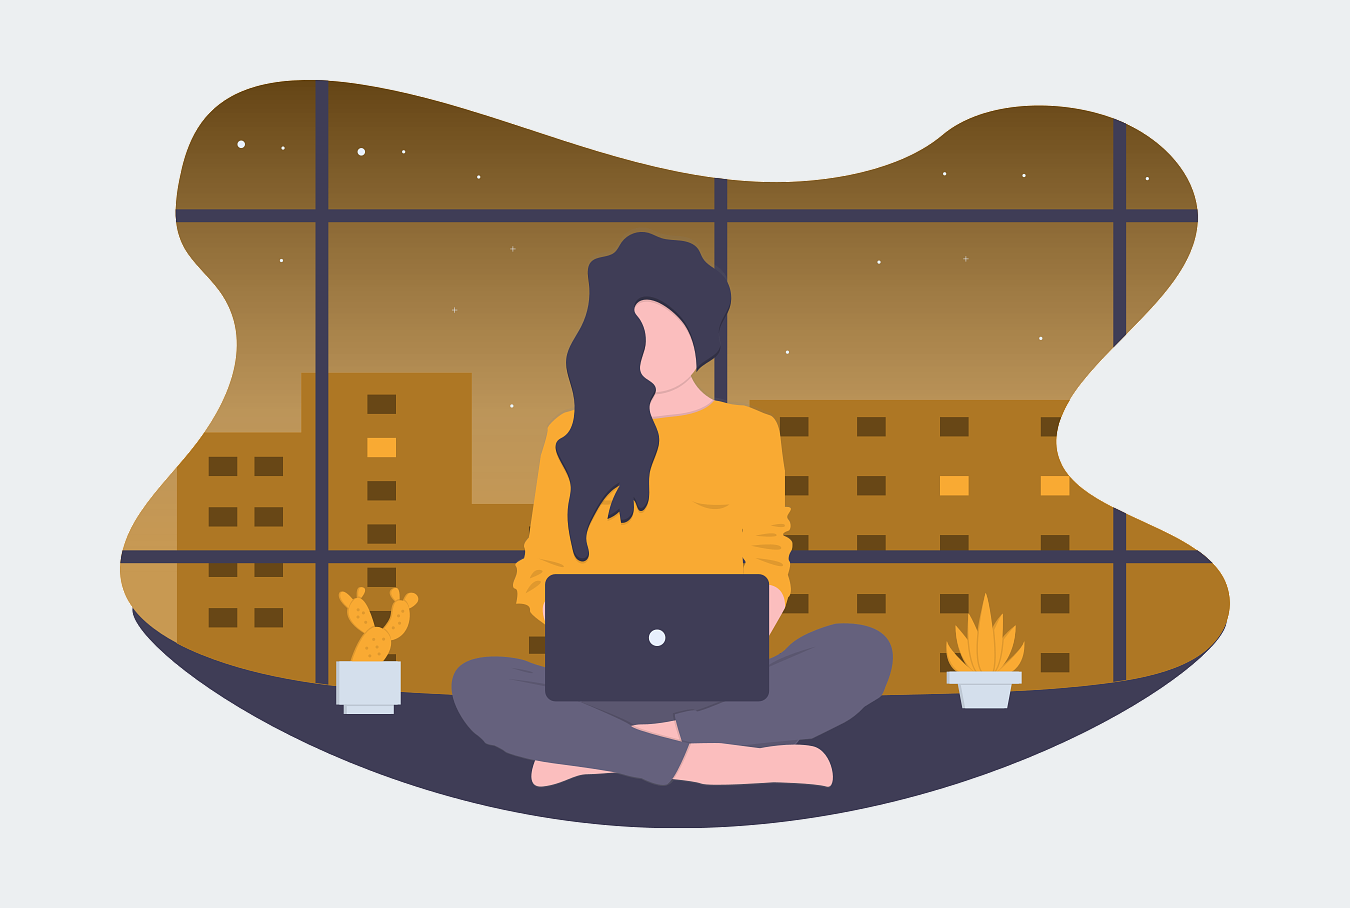
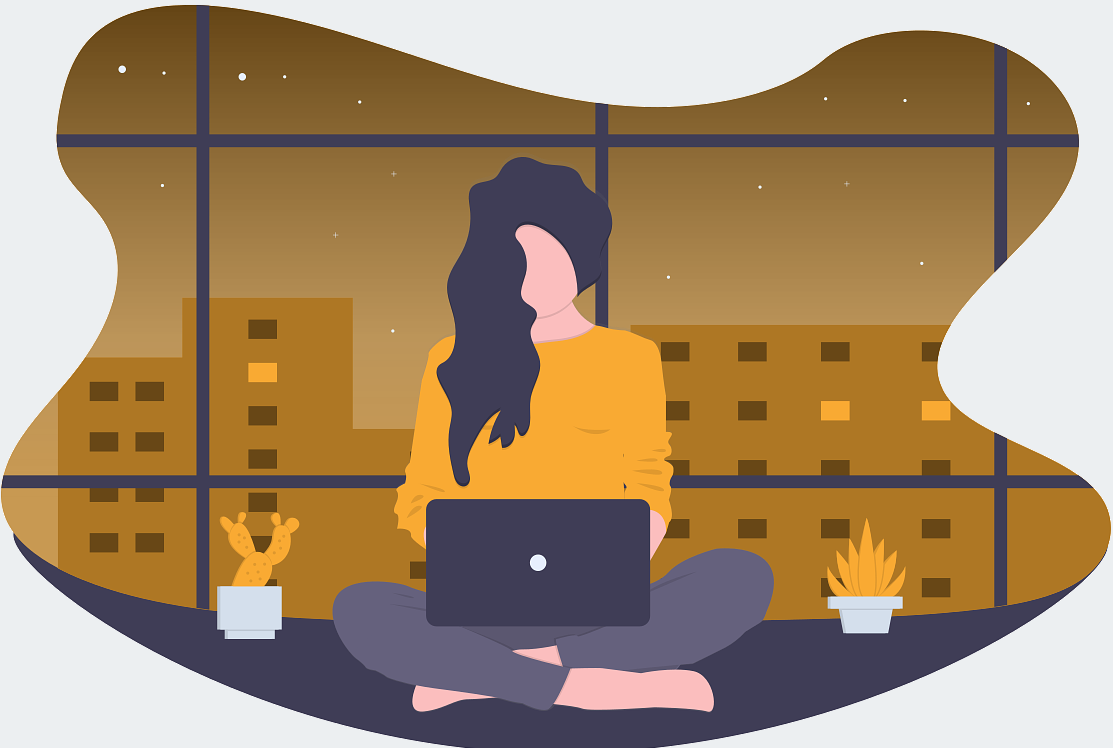
EDIT index page
index 페이지 변경

diff --git a/htdocs/index.html b/htdocs/index.html
@@ -1,5 +1,5 @@
 <!DOCTYPE html>
-<html>
+<html lang="ko">
   <head>
     <meta charset="utf-8" />
     <meta http-equiv="X-UA-Compatible" content="IE=edge" />
@@ -20,45 +20,34 @@
   </head>
 
   <body class="blue-grey lighten-5">
-    <!-- <section class="container">
-      <div class="row">
-        <div class="col s12 m6"></div>
-        <div class="col s12 m6 center-align">
-          <h1 style="margin-top: 100px">dayArchive</h1>
-          <h5><em>당신의 하루를 기록하세요</em></h5>
+    <section class="row relate">
+      <div class="indexSection">
+        <div class="col s12 m6 imgDiv">
+          <img class="titleImg" src="./Images/undraw_working_late_pukg.png" width="100%" alt="" />
+        </div>
+        <div class="col s12 m6 titleDiv">
+          <h1 class="blue-grey-text text-darken-3 titleText">
+            dayArchive
+          </h1>
+          <h5><em class="subtitleText center-align">당신의 하루를 기록하세요</em></h5>
+          <div class="buttonGroup">
+            <a
+              class="col s4 offset-s1 waves-effect waves-light btn blue-grey darken-3 left-align"
+              href="#"
+            >
+              로그인
+            </a>
+            <a
+              class="col s4 push-s2 waves-effect waves-light btn yellow darken-3 right-align"
+              href="#"
+            >
+              회원가입
+            </a>
+          </div>
         </div>
       </div>
-    </section> -->
-    <!-- <div class="parallax-container">
-      <div class="parallax">
-        <img src="./Images/undraw_working_late_pukg.png" />
-      </div>
-    </div>
-    <div class="col s12 m6 center-align">
-      <h1 style="margin-top: 100px">dayArchive</h1>
-      <h5><em>당신의 하루를 기록하세요</em></h5>
-    </div> -->
-    <div class="parallax-container">
-      <div class="parallax">
-        <div class="col s12 m6 center-align">
-          <h1 style="margin-top: 100px">dayArchive</h1>
-          <h5><em>당신의 하루를 기록하세요</em></h5>
-        </div>
-        <img src="images/lucija-ros-1459322-unsplash.jpg" />
-      </div>
-    </div>
-    <div class="section white">
-      <div class="row container">
-        <h2 class="header">Parallax</h2>
-        <p class="grey-text text-darken-3 lighten-3">
-          Parallax is an effect where the background content or image in this case, is moved at a
-          different speed than the foreground content while scrolling.
-        </p>
-      </div>
-    </div>
-    <div class="parallax-container">
-      <div class="parallax"><img src="Images/undraw_working_late_pukg.png" /></div>
-    </div>
+    </section>
+
     <script src="main.js"></script>
   </body>
 </html>

diff --git a/htdocs/index.css b/htdocs/index.css
@@ -1,4 +1,76 @@
-/* body {
-  background: url("Images/undraw_working_late_pukg.png") no-repeat center center fixed;
-  background-size: cover;
-} */
+@import url("https://fonts.googleapis.com/css?family=Nanum+Pen+Script");
+@import url("https://fonts.googleapis.com/css?family=Lobster");
+
+.relate {
+  height: 80vh;
+  position: relative;
+}
+
+.indexSection {
+  width: 80vw;
+  /* 중앙정렬 배치 용도 */
+  position: absolute;
+  top: 57%;
+  left: 50%;
+  -ms-transform: translate(-50%, -50%);
+  transform: translate(-50%, -50%);
+}
+
+.titleDiv {
+  position: relative;
+  height: 350px;
+}
+
+.imgDiv {
+  position: relative;
+  height: 400px;
+}
+
+.titleImg {
+  object-fit: contain;
+  /* 중앙정렬 배치 용도 */
+  position: absolute;
+  top: 50%;
+  left: 50%;
+  -ms-transform: translate(-50%, -50%);
+  transform: translate(-50%, -50%);
+}
+
+.titleText {
+  font-family: "Lobster", cursive;
+  /* 중앙정렬 배치 용도 */
+  position: absolute;
+  top: 30%;
+  left: 50%;
+  -ms-transform: translate(-50%, -50%);
+  transform: translate(-50%, -50%);
+}
+
+.titleText {
+  font-family: "Lobster", cursive;
+  /* 중앙정렬 배치 용도 */
+  position: absolute;
+  top: 10%;
+  left: 50%;
+  -ms-transform: translate(-50%, -50%);
+  transform: translate(-50%, -50%);
+}
+.subtitleText {
+  font-family: "Nanum Pen Script", cursive;
+  /* 중앙정렬 배치 용도 */
+  position: absolute;
+  top: 40%;
+  left: 50%;
+  -ms-transform: translate(-50%, -50%);
+  transform: translate(-50%, -50%);
+}
+
+.buttonGroup {
+  width: 300px;
+  /* 중앙정렬 배치 용도 */
+  position: absolute;
+  top: 85%;
+  left: 50%;
+  -ms-transform: translate(-50%, -50%);
+  transform: translate(-50%, -50%);
+}
